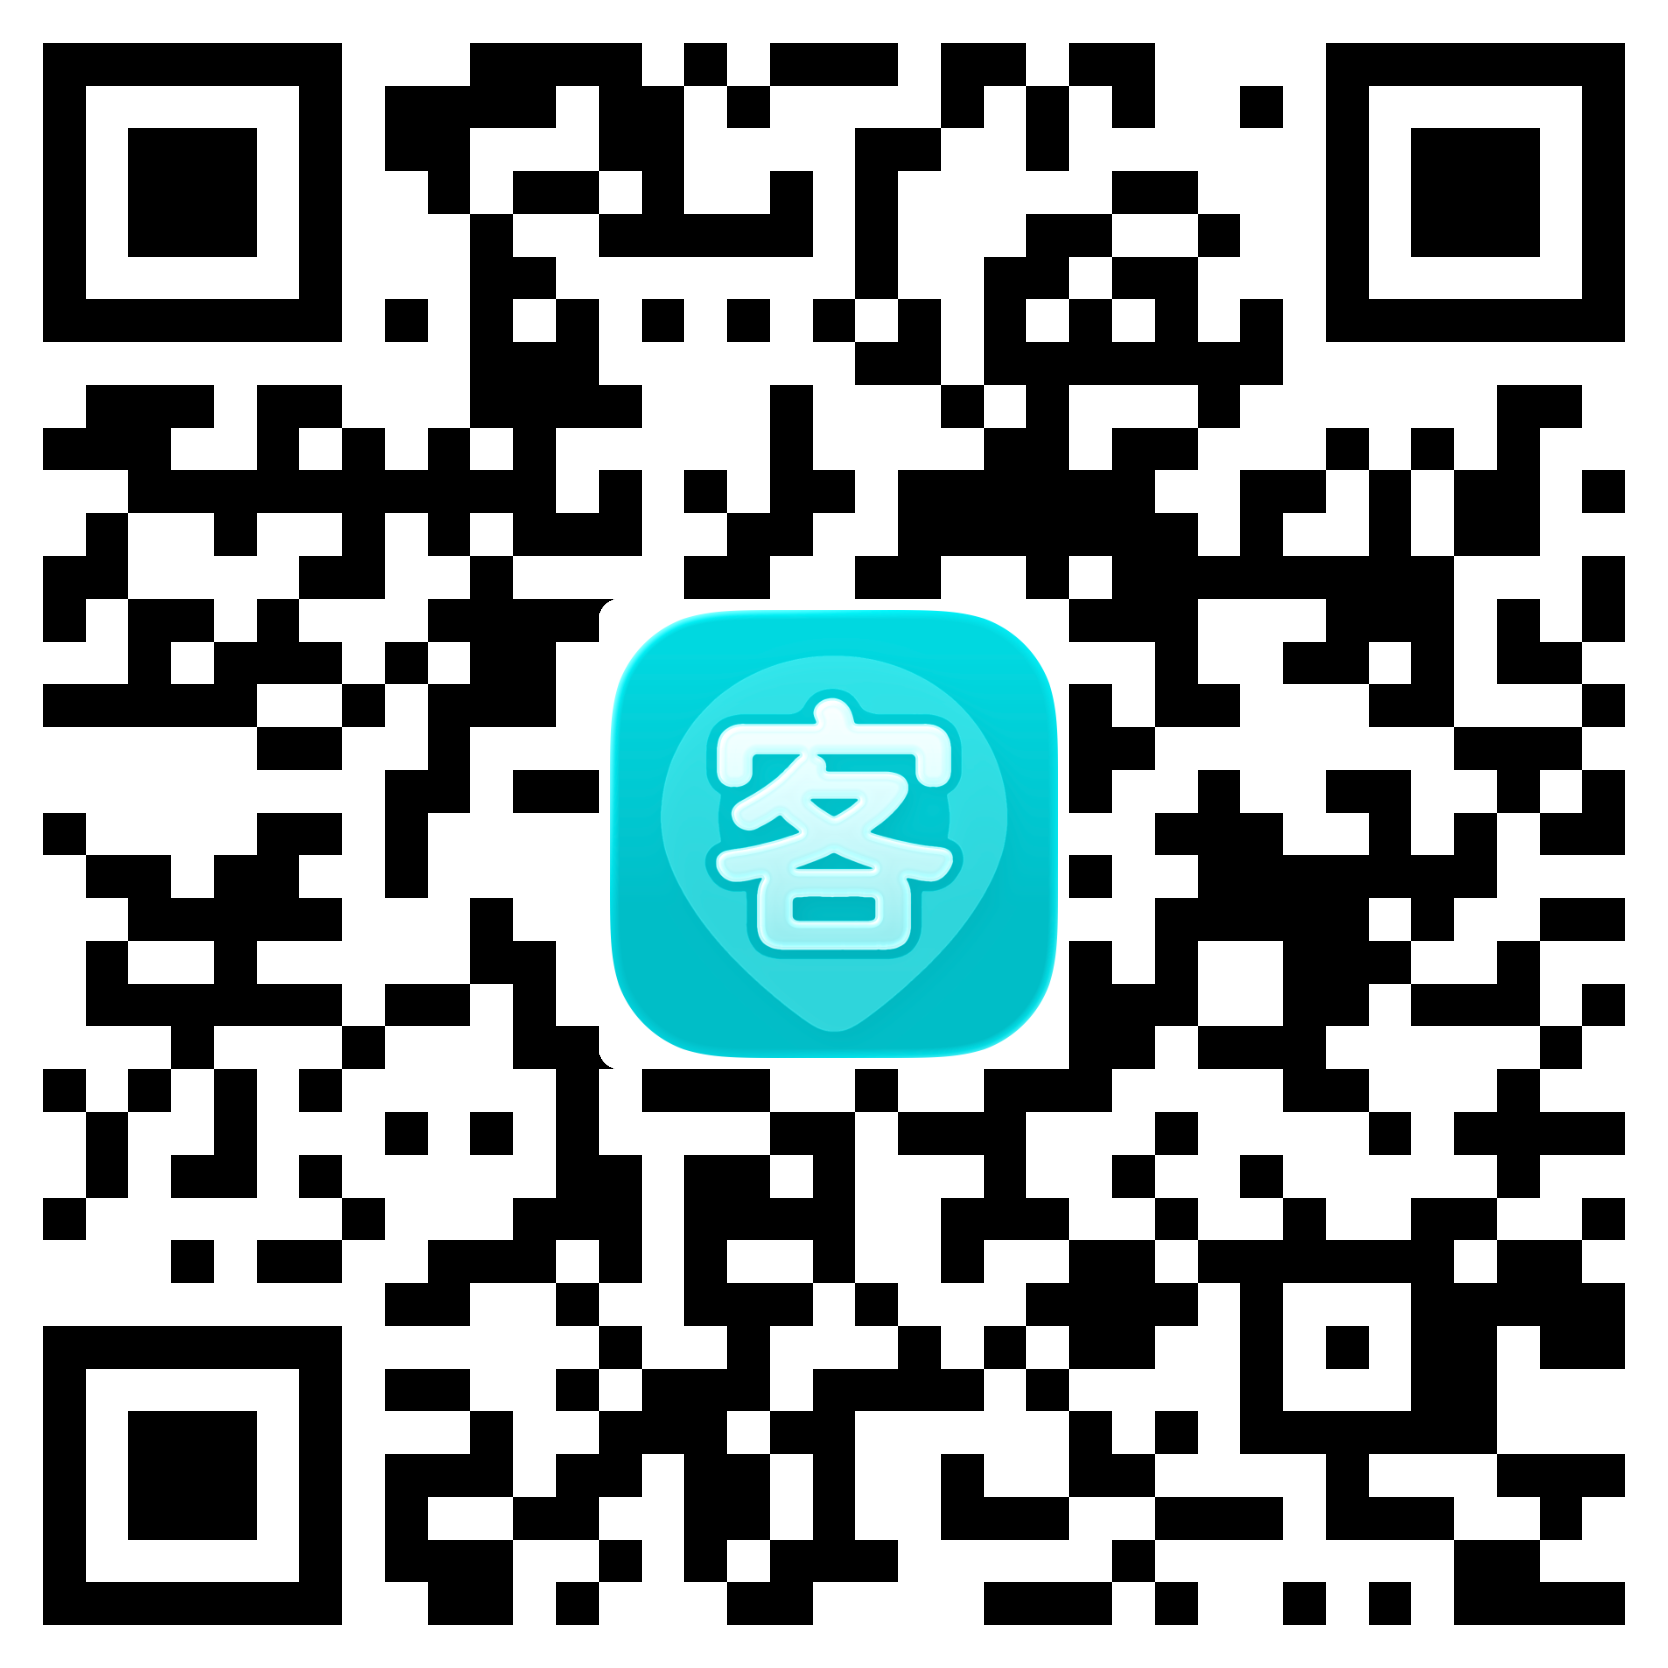
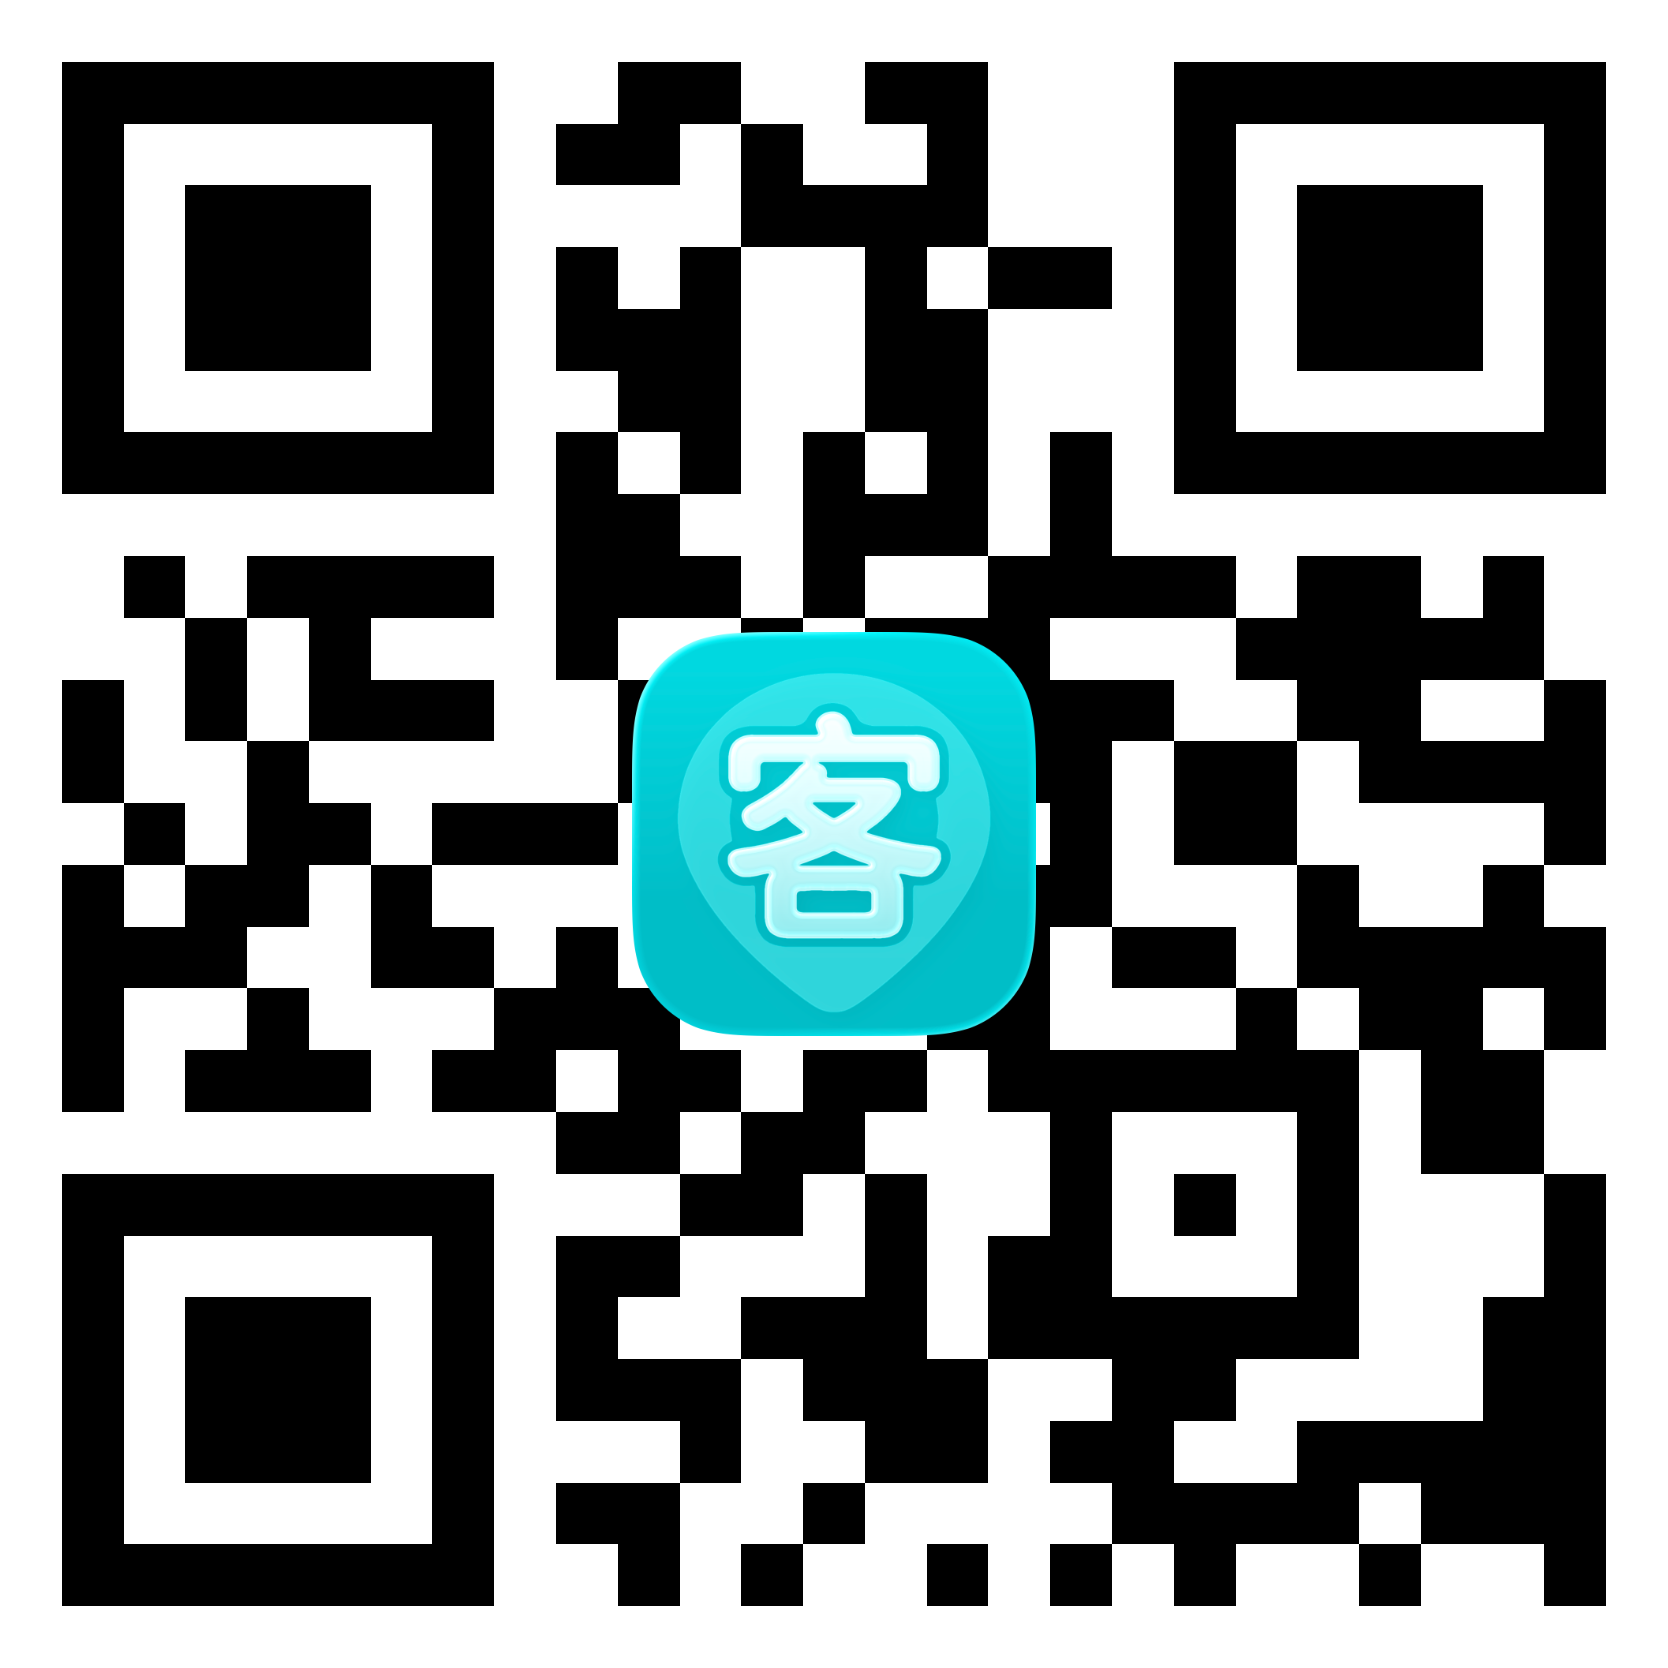
feat: add device-aware dynamic download links and update QR code asset

diff --git a/index.html b/index.html
@@ -468,7 +468,7 @@
             <a href="#philosophy">理念</a>
             <a href="#people">人群</a>
             <a href="privacy.html">隐私</a>
-            <a href="https://apps.apple.com/cn/app/%E5%9C%B0%E6%96%B9%E5%AE%A2/id6761982162" target="_blank" class="btn-download-nav">下载应用</a>
+            <a href="https://apps.apple.com/cn/app/%E5%9C%B0%E6%96%B9%E5%AE%A2/id6761982162" target="_blank" class="btn-download-nav dynamic-download">下载应用</a>
         </nav>
     </header>
 
@@ -617,14 +617,27 @@
             startAutoSlide();
         }
 
-        function startAutoSlide() {
-            slideInterval = setInterval(() => {
-                showSlide(currentSlide + 1);
-            }, 4000);
+        // Device detection and download link adjustment
+        function setupDynamicLinks() {
+            const userAgent = navigator.userAgent || navigator.vendor || window.opera;
+            const iosLink = "https://apps.apple.com/cn/app/%E5%9C%B0%E6%96%B9%E5%AE%A2/id6761982162";
+            const androidLink = "download/difangke.apk?v=8";
+            
+            let targetLink = iosLink; // Default
+            if (/android/i.test(userAgent)) {
+                targetLink = androidLink;
+            } else if (/iPad|iPhone|iPod/.test(userAgent) && !window.MSStream) {
+                targetLink = iosLink;
+            }
+
+            document.querySelectorAll('.dynamic-download').forEach(link => {
+                link.href = targetLink;
+            });
         }
 
         // Initialize
         startAutoSlide();
+        setupDynamicLinks();
     </script>
 
 </body>
